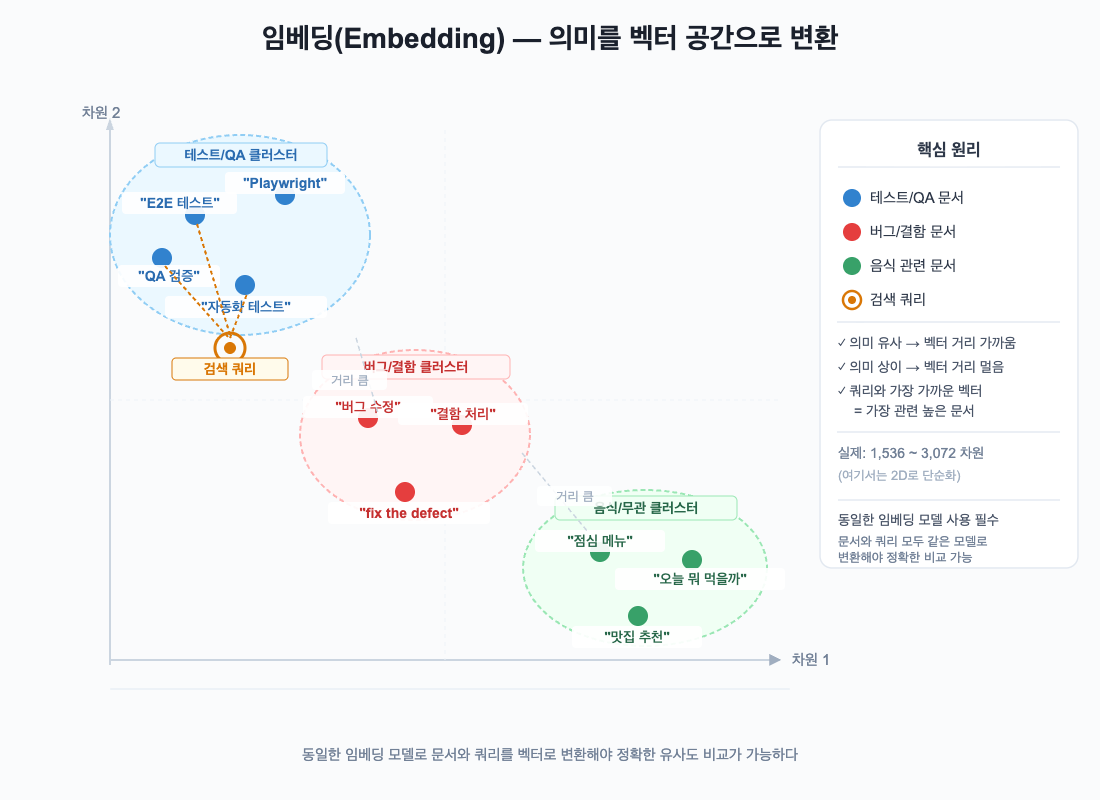
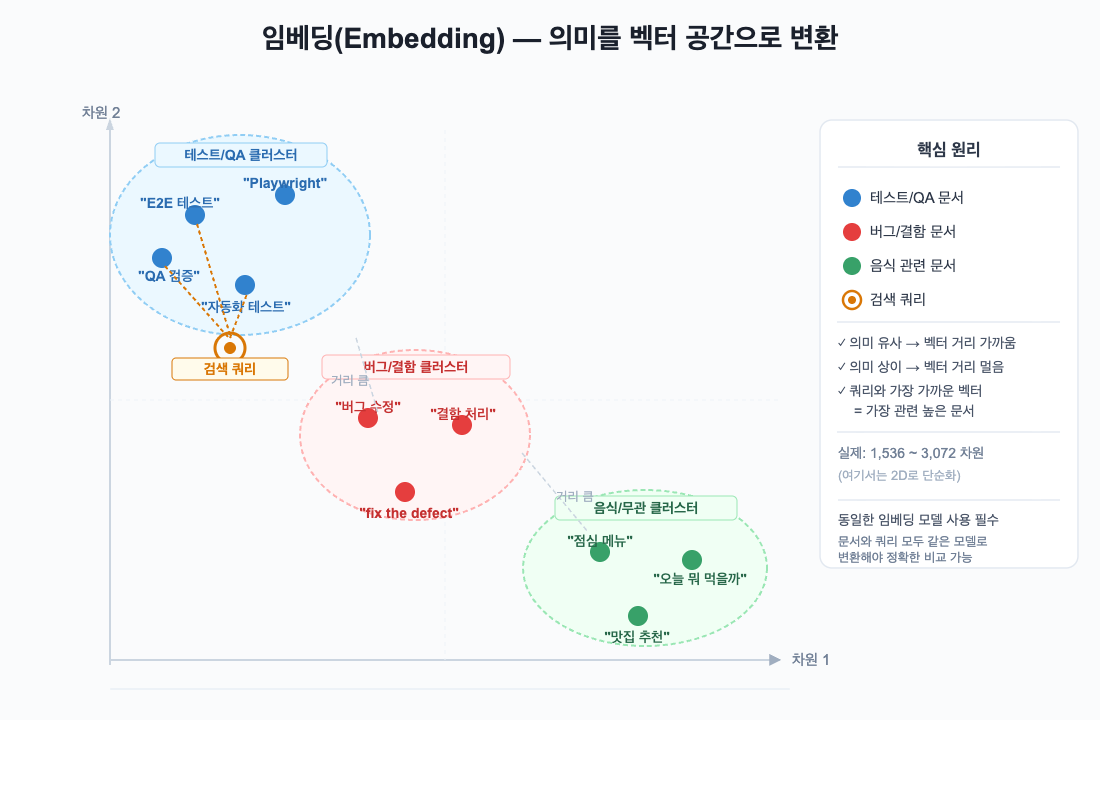
fix: bold rendering, image captions, transparent text backgrounds in diagrams

diff --git a/src/styles/global.css b/src/styles/global.css
@@ -146,3 +146,12 @@ hr {
 	/* added line to stop words getting smushed together (as they go onto separate lines and some screen readers do not understand line feeds as a space */
 	white-space: nowrap;
 }
+
+.prose p > em:only-child {
+	display: block;
+	font-size: 0.85em;
+	color: rgb(var(--gray));
+	margin-top: -0.3em;
+	margin-bottom: 1.5em;
+	text-align: center;
+}

diff --git a/src/content/blog/vector-db-basics.md b/src/content/blog/vector-db-basics.md
@@ -30,7 +30,7 @@ SELECT * FROM documents WHERE title = 'E2E 테스트 가이드';
 "이 문장과 의미적으로 가장 가까운 FAQ 항목은?"
 ```
 
-RDB는 값이 **정확히 일치**하거나 **포함**되는지만 판단할 수 있거든요. 의미가 비슷한지는 판단 못 해요.
+RDB는 값이 <strong>정확히 일치</strong>하거나 <strong>포함</strong>되는지만 판단할 수 있거든요. 의미가 비슷한지는 판단 못 해요.
 
 | 항목 | RDB | 벡터 DB |
 |------|-----|---------|
@@ -43,7 +43,7 @@ RDB는 값이 **정확히 일치**하거나 **포함**되는지만 판단할 수
 
 ## 임베딩: 의미를 숫자 배열로 변환한다는 게 뭔 뜻이에요
 
-**임베딩(Embedding)**은 텍스트를 수백~수천 차원의 숫자 배열(벡터)로 변환하는 기술이에요. 핵심은 이거예요 — 의미가 비슷한 텍스트는 벡터 공간에서 **가까운 위치**에 놓여요.
+<strong>임베딩(Embedding)</strong>은 텍스트를 수백~수천 차원의 숫자 배열(벡터)로 변환하는 기술이에요. 핵심은 이거예요 — 의미가 비슷한 텍스트는 벡터 공간에서 <strong>가까운 위치</strong>에 놓여요.
 
 ```
 "E2E 테스트 자동화"
@@ -57,6 +57,7 @@ RDB는 값이 **정확히 일치**하거나 **포함**되는지만 판단할 수
 ```
 
 ![임베딩 — 의미를 벡터 공간으로 변환](../../assets/vector-db-basics_embedding_image.png)
+*동일한 임베딩 모델로 문서와 쿼리를 변환해야 정확한 유사도 비교가 가능해요.*
 
 테스트/QA 관련 문서들은 같은 클러스터에 모이고, 음식 관련 문서는 멀리 떨어지죠. 검색 쿼리(주황색)와 가장 가까운 벡터들이 바로 관련 문서가 되는 거예요.
 
@@ -76,8 +77,9 @@ RDB는 값이 **정확히 일치**하거나 **포함**되는지만 판단할 수
 RAG는 AI가 모르는 내용을 외부 문서에서 찾아와 답하게 하는 방식이에요. 크게 세 단계로 나뉘어요.
 
 ![RAG 파이프라인 전체 흐름](../../assets/vector-db-basics_rag_image.png)
+*벡터 DB 검색 품질(Recall)이 RAG 전체 품질을 결정해요. 관련 문서를 못 찾으면 LLM이 아무리 좋아도 정확한 답을 낼 수 없어요.*
 
-**① 사전 준비 (Indexing)** — 문서를 벡터 DB에 저장해요.
+<strong>① 사전 준비 (Indexing)</strong> — 문서를 벡터 DB에 저장해요.
 
 ```
 원본 문서 수집 → 청킹(Chunking) → 임베딩 변환 → 벡터 DB 저장
@@ -85,11 +87,11 @@ RAG는 AI가 모르는 내용을 외부 문서에서 찾아와 답하게 하는 
 
 청킹이 중요해요. 너무 크게 자르면 관련 없는 내용이 섞이고, 너무 작게 자르면 맥락이 사라지거든요.
 
-**② 검색 (Retrieval)** — 질문을 벡터로 만들고 가장 가까운 청크들을 찾아요.
+<strong>② 검색 (Retrieval)</strong> — 질문을 벡터로 만들고 가장 가까운 청크들을 찾아요.
 
-**③ 생성 (Generation)** — 검색된 청크들 + 질문을 LLM에 넘기면 문서 기반 답변이 나와요.
+<strong>③ 생성 (Generation)</strong> — 검색된 청크들 + 질문을 LLM에 넘기면 문서 기반 답변이 나와요.
 
-**핵심은 이거예요.** 벡터 DB 검색 품질이 RAG 전체 품질을 결정해요. 관련 문서를 못 찾으면 LLM이 아무리 좋아도 정확한 답을 낼 수 없거든요.
+<strong>핵심은 이거예요.</strong> 벡터 DB 검색 품질이 RAG 전체 품질을 결정해요. 관련 문서를 못 찾으면 LLM이 아무리 좋아도 정확한 답을 낼 수 없거든요.
 
 그럼 "가장 가까운 벡터를 찾는다"는 게 구체적으로 어떻게 계산되는 걸까요.
 
@@ -98,12 +100,13 @@ RAG는 AI가 모르는 내용을 외부 문서에서 찾아와 답하게 하는 
 벡터 사이의 거리를 계산하는 방식이 세 가지 있어요.
 
 ![유사도 측정 방식 비교](../../assets/vector-db-basics_cosine_image.png)
+*텍스트 RAG엔 코사인 유사도가 기본값이에요. 정규화된 벡터라면 내적(Dot Product)과 동일한 결과가 나와요.*
 
-**코사인 유사도** — 두 벡터 사이의 각도를 기준으로 유사도를 측정해요. 벡터 크기는 무시하고 방향만 비교하죠. 텍스트 유사도 검색의 기본값이에요.
+<strong>코사인 유사도</strong> — 두 벡터 사이의 각도를 기준으로 유사도를 측정해요. 벡터 크기는 무시하고 방향만 비교하죠. 텍스트 유사도 검색의 기본값이에요.
 
-**내적 (Dot Product)** — 방향과 크기 모두 반영해요. 벡터가 정규화되어 있으면 코사인 유사도와 동일한 결과가 나와요.
+<strong>내적 (Dot Product)</strong> — 방향과 크기 모두 반영해요. 벡터가 정규화되어 있으면 코사인 유사도와 동일한 결과가 나와요.
 
-**유클리드 거리 (L2)** — 두 점 사이의 직선 거리예요. 벡터가 정규화되어 있으면 L2와 코사인 유사도는 수학적으로 동일한 결과를 내요. 정규화되지 않은 상태에서는 이미지·수치 데이터 검색에 더 자주 쓰여요.
+<strong>유클리드 거리 (L2)</strong> — 두 점 사이의 직선 거리예요. 벡터가 정규화되어 있으면 L2와 코사인 유사도는 수학적으로 동일한 결과를 내요. 정규화되지 않은 상태에서는 이미지·수치 데이터 검색에 더 자주 쓰여요.
 
 텍스트 RAG라면 코사인 유사도를 기본으로 써요. 계산 방식은 정했는데, 이 검색이 "잘 된다"는 걸 어떻게 판단할 수 있을까요.
 
@@ -112,33 +115,36 @@ RAG는 AI가 모르는 내용을 외부 문서에서 찾아와 답하게 하는 
 벡터 DB 성능 이야기를 할 때 반드시 나오는 지표들이에요.
 
 ![Recall–Latency Tradeoff](../../assets/vector-db-basics_recall_image.png)
+*ef 값을 높일수록 Recall은 올라가지만 Latency도 증가해요. 대부분의 RAG 서비스는 ef=128~256 구간이 적정점이에요.*
 
-**Recall(재현율)**: "실제로 관련 있는 문서 중, 몇 개를 찾아냈는가?"
+<strong>Recall(재현율)</strong>: "실제로 관련 있는 문서 중, 몇 개를 찾아냈는가?"
 - Recall 1.0 = 완벽 (Brute Force만 가능)
 - Recall 0.95 이상 = 실용적 수준
 - Recall 0.80 이하 = 체감되는 품질 저하
 
-**Latency**: 질문 넣고 결과 나올 때까지 걸리는 시간이에요. 실서비스에서는 p99가 중요해요. p50이 5ms라도 p99가 500ms면 일부 사용자는 매우 느린 경험을 하거든요.
+<strong>Latency</strong>: 질문 넣고 결과 나올 때까지 걸리는 시간이에요. 실서비스에서는 p99가 중요해요. p50이 5ms라도 p99가 500ms면 일부 사용자는 매우 느린 경험을 하거든요.
 
 가장 중요한 원칙은 이거예요.
 
 > 더 정확하게 찾을수록 더 오래 걸리고, 더 빠를수록 덜 정확해져요.
 
-많은 RAG 서비스의 합리적인 목표 구간은 **Recall 0.95~0.98, p99 Latency 50ms 이하**예요. 정확도가 더 중요한 금융·의료 같은 도메인에서는 Recall 0.99+를 요구하기도 해요. 이 목표를 현실적으로 달성하려면 어떤 알고리즘을 써야 할까요.
+많은 RAG 서비스의 합리적인 목표 구간은 <strong>Recall 0.95~0.98, p99 Latency 50ms 이하</strong>예요. 정확도가 더 중요한 금융·의료 같은 도메인에서는 Recall 0.99+를 요구하기도 해요. 이 목표를 현실적으로 달성하려면 어떤 알고리즘을 써야 할까요.
 
 ## ANN 알고리즘: 왜 정확도를 조금 포기하는가
 
-수억 개 벡터를 모두 비교하는 건 현실적으로 불가능해요. 그래서 대부분의 벡터 DB는 **근사 최근접 이웃(ANN)** 알고리즘을 사용해요.
+수억 개 벡터를 모두 비교하는 건 현실적으로 불가능해요. 그래서 대부분의 벡터 DB는 <strong>근사 최근접 이웃(ANN)</strong> 알고리즘을 사용해요.
 
 ### FLAT — Brute Force
 
 ![FLAT 알고리즘](../../assets/vector-db-basics_flat_image.png)
+*모든 벡터와 비교하므로 Recall 100%를 보장해요. 데이터가 많아질수록 비례해서 느려지는 게 단점이에요.*
 
 가장 단순해요. 모든 벡터와 하나씩 비교해요. Recall 100%지만 시간 복잡도가 O(N × D)라 데이터가 많아지면 쓸 수가 없어요. 10만 개 이하, 정확도가 절대적으로 중요한 경우에만 적합해요.
 
 ### IVF — 클러스터 기반 탐색
 
 ![IVF 알고리즘](../../assets/vector-db-basics_ivf_image.png)
+*전체를 탐색하지 않고 가까운 클러스터 일부만 탐색해요. nprobe 값으로 탐색 범위와 속도를 조절할 수 있어요.*
 
 전체 벡터를 클러스터로 나눈 뒤, 쿼리와 가까운 클러스터만 탐색하는 방식이에요.
 
@@ -153,6 +159,7 @@ RAG는 AI가 모르는 내용을 외부 문서에서 찾아와 답하게 하는 
 ### HNSW — 현재 가장 널리 쓰이는 알고리즘
 
 ![HNSW 알고리즘](../../assets/vector-db-basics_hnsw_image.png)
+*현재 가장 널리 쓰이는 ANN 알고리즘이에요. Pinecone, Weaviate, Qdrant, pgvector 모두 기본값으로 사용해요.*
 
 계층적 그래프 구조로 탐색해요.
 
@@ -175,6 +182,7 @@ RAG는 AI가 모르는 내용을 외부 문서에서 찾아와 답하게 하는 
 ### DiskANN — 수억 벡터를 저비용으로
 
 ![DiskANN 알고리즘](../../assets/vector-db-basics_diskann_image.png)
+*SSD와 RAM을 계층적으로 활용해요. 적은 메모리로 수십억 벡터를 처리할 수 있어서 비용 효율이 높아요.*
 
 HNSW의 약점은 인덱스가 RAM에 올라가야 한다는 거예요. 수억 개 벡터면 RAM 비용이 엄청나거든요. DiskANN은 인덱스를 SSD에 저장해서 이 문제를 해결해요.
 
